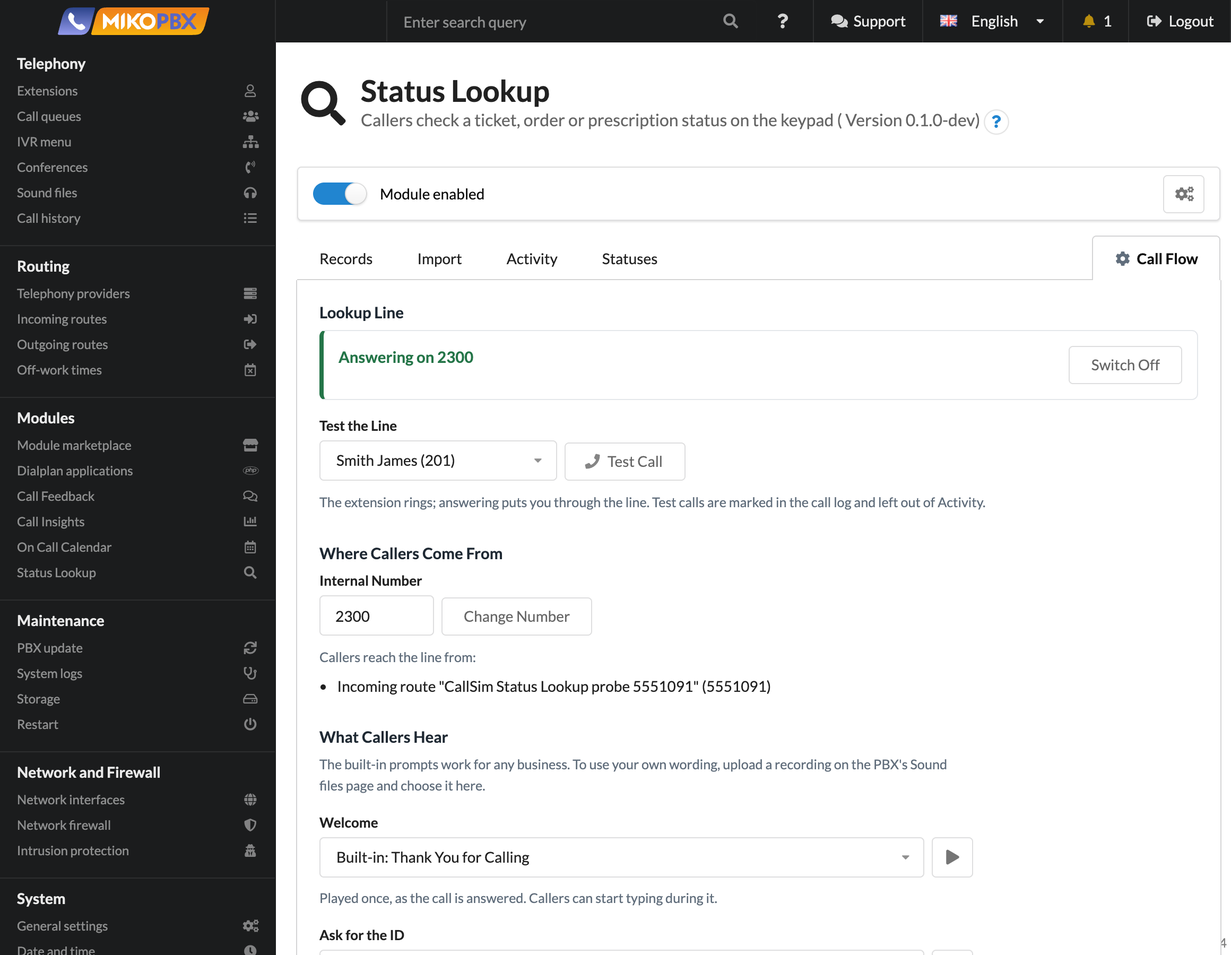
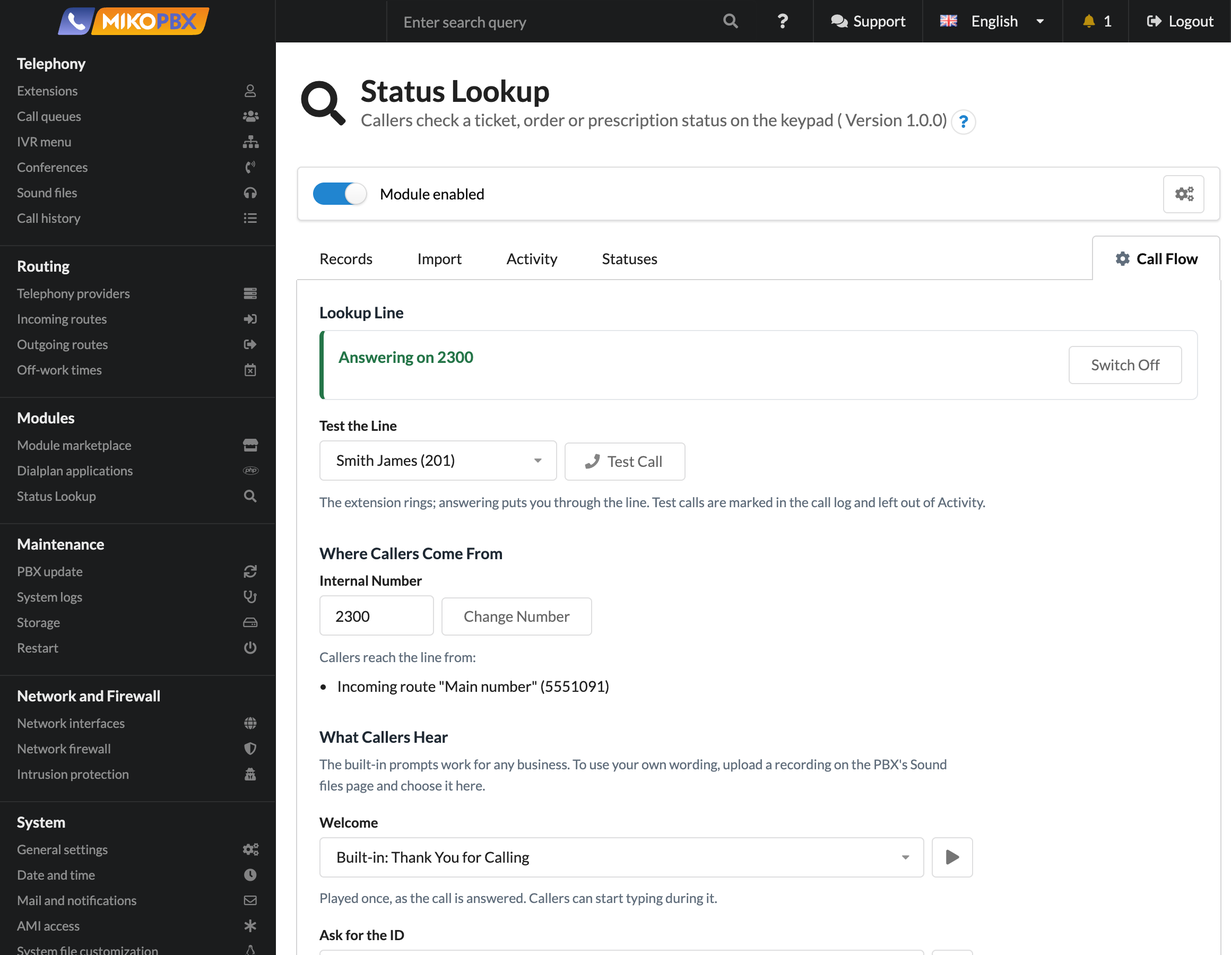
Prepare the README and CHANGELOG for the first release
The README no longer says the module is in development: it points to the
Releases page for the install zip and to the CHANGELOG, as the other
documentation expects once a version is published. The License section
now also names the licenses of what ships beside the module's own code:
the built-in prompts are CC0 1.0 (Sounds/LICENSE), and the bundled Apache
ECharts is Apache-2.0, with its notice and zrender's license next to it.

The CHANGELOG entry was written up feature by feature as the module was
built, so it read in the order things happened rather than the order a
reader needs. It now opens with one line on what the first version is
and lists the entries from the call itself (number, call flow, prompts,
PINs, guessing protection) through the page's tabs, the REST API and
privacy, to tooling. Wording that only made sense during development
("after a review", "Page details") is gone; nothing else changed. The
Release workflow uses this section as the release notes, so on release
only its heading needs the version and date.

Screenshots are retaken on the test PBX with the made-up repair-shop
data, now with the release's version in the page header, without other
modules in the PBX sidebar and without the test tools' route name. Two
new ones show the status dialog (sentence, what follows, who hears it)
and the record dialog (date, last day, phone, PIN), as a third row of
the README's screenshot table. The Import shot is taller, so the rows
[…]

diff --git a/CHANGELOG.md b/CHANGELOG.md
@@ -4,29 +4,17 @@ All notable changes to this module are listed here. Versions follow [Semantic Ve
 
 ## [Unreleased]
 
+The first version of Status Lookup: a self-service status line for MikoPBX 2026.6.34 or later, where callers type their ticket, order or prescription number and hear where it stands.
+
 Added:
 
 - **The lookup line's number.** On install the module takes internal number 2300, or the first free number up to 2399, and registers it in the PBX's extensions as a module number. It then appears as "Module: Status Lookup (2300)" in the PBX's destination pickers (incoming routes, IVR menus) while the module is enabled, and is hidden while it is disabled. 2300 is used because the PBX numbers its own IVR menus, queues and applications from 2200100 up, so 2200 would be a prefix of them. A reinstall that keeps settings keeps the number; an uninstall without kept settings releases it, unless a route still points at it. A later fresh install takes such a left-over number back, so those routes work again. The module never takes over a number another extension or module owns, and writes dialplan only for a number registered to it.
-- **The module page** (administrators only, Modules → Status Lookup), Call Flow tab:
-  - the line's state at a glance (answering on its number, or not, and what is missing), with Switch On and Switch Off. The line can only be switched on when it has an operator destination and every prompt can be played, and a change that would break a line that is on is refused;
-  - Test Call: choose an extension and the PBX rings it; answering puts you through the line exactly as a caller hears it. The module's worker places the call (the web page has no connection to Asterisk), and it is logged as a test call from that extension, left out of Activity and the miss limits;
-  - where callers come from: the incoming routes, IVR menus and off-work rules that send callers to the line, and Change Number. A number something still sends callers to can't be given up: the change is refused and nothing moves;
-  - what callers hear: each prompt from the built-in ones (only those with a recording) or the PBX's sound files, in a searchable menu with a play button on every entry and a Listen button beside it;
-  - how callers type (shortest and longest ID, how long to wait for keys, tries; new lengths that would leave existing records out of reach ask first, naming how many), where callers go (operator, after the last try, when a lookup fails; the last two default to the operator) from the PBX's own destination list, and the guessing protection limits.
-  Every value is checked again on the server; a refused change says what to fix, in English or Russian.
-- **Page behavior:** every action button ignores a second click while it works; a menu whose choice no longer exists (a deleted sound file or destination) shows it as missing instead of quietly picking another; the status dialog starts with no sound file chosen; the page works with any interface language, including ones written with an underscore (pt_BR, zh_Hans). Changes are written in transactions that take the database's write lock first, so a change made while calls are being logged waits a moment instead of failing.
-- **Statuses tab:** the statuses a record can have, in the order staff see them, each with its sentence (a PBX sound file, with a play button), what is said after it (nothing, the ID read back, or the record's date), what happens next (offer 1 to repeat and 0 for a person, say goodbye, or put the caller straight through to a destination) and how many records have it. Add, edit, move up and down, delete. Changing a status's code changes it on its records too; a status records still use is deleted only after choosing the status its records move to, in one step. A status whose sound file or destination has gone is flagged. Up to 50 statuses.
-- **Business templates.** On first use the Statuses tab asks "What kind of business is this?" and offers IT and device repair, auto workshop, pharmacy, and retail and e-commerce, each with its usual statuses and ID lengths, or starting from scratch. A template adds its statuses with the wording to record for each (in English or Russian, following the PBX's language); Download Wording gives the list to whoever records them, and each status shows "Not recorded yet" with its wording until a sound file is chosen. Statuses that need a conversation (such as "Can't be repaired") put the caller straight through to the operator when one is set, and otherwise offer the repeat menu, where 0 reaches the operator. Add from Template… later adds only the statuses that are missing (by code) and changes nothing else; a template sets the ID lengths only while there are no records. On the Records tab, a status whose sentence isn't recorded yet carries a warning: callers with it are put through to a person. Templates are JSON files in `Setup/templates/`, checked strictly when read, so new industries can be added as files. Each status also has an optional wording field, for whoever records it.
-- **Records tab** (the page's first tab): every record, newest change first, 50 to a page, with its ID, status (a colored label), date, last day (expired records grayed, with the day they expired), note, and when, by whom and how it last changed. Search by ID (from the start, so 104 finds 10445) or by text in the note; filter by status, by "not changed in 7, 30 or 90 days", and expired only. Add and edit in a dialog (the ID must be within the call flow's ID lengths, and unique); select records to change their status or delete them together (up to 1,000 at a time). Export CSV downloads the filtered records in the import format; PINs are never exported, and a note a spreadsheet would run as a formula is prefixed with an apostrophe.
-- **Import tab:** load records from a CSV file (UTF-8, comma- or semicolon-separated, with a header row; lookup_id and status_code are needed, note, expires, date, pin and phone optional; up to 5 MB and 100,000 rows). Drop the file or choose it, pick Add and Update or Replace All, and Check File shows what would happen first: how many records are new, changed, unchanged and deleted, and every row left out with its row number and reason (no ID, ID too short or long, the same ID as an earlier row, unknown status, note too long, a PIN that isn't 4 to 8 digits, a phone that isn't a phone number, a date that isn't YYYY-MM-DD). Nothing changes until Import is pressed; Replace All asks before deleting records not in the file, keeps records whose row in the file was left out (a typo in one row never deletes that customer's record), and is refused when no row in the file can be imported. Blank lines before the header are ignored. An ID keeps only its digits (TK-10445 becomes 10445), status codes match in any case, and a quoted note may span lines; the apostrophe Export CSV puts before formula-like notes is removed, so an exported file imports back unchanged. The whole file is applied in one transaction, so a call during the import sees the records as they were before or after it. Past imports are listed with who imported which file and what changed, and the rows each one left out. The file is read from the upload and never stored. A Download Example button gives a file in the right format.
 - **The call flow.** A caller who reaches the line hears a welcome, types an ID and #, and hears its status: one recorded sentence, optionally followed by the ID read back or a date (weekday, month and day, in the PBX's language). After the status the line either says goodbye, offers "1 to hear it again, 0 to speak to someone", or sends the caller straight to the status's own destination. 0 at the ID prompt reaches the operator destination; an invalid entry, an unknown ID or an expired record costs a try, and after the last try (3 by default) the caller goes to the too-many-tries destination. A status whose destination no longer exists, or that can't be played, sends the caller to the fault destination, as does a lookup that fails for any reason (even when the lookup script can't run at all); if that destination is gone too, they hear an apology. Until the line is switched on and has an operator destination, it doesn't answer, so an incoming route moves on to its next rule or default action as for any unanswered destination.
   - The dialplan plays the prompts and collects the digits; a short AGI script runs once per try, looks the ID up (digits within the configured length only, one indexed read, bound parameters) and returns the result in channel variables. PHP is in the call for milliseconds, and a caller who hangs up leaves no PHP process behind.
   - The line behaves like the PBX's own IVR menus: it has its own row in the call history, tells the incoming route the call was answered (so the caller doesn't fall through to the route's next rule or default action), and takes transfers from phones. Its own 2-minute limit replaces the incoming route's ring timeout, which the PBX would otherwise apply to it, and is cleared before the caller is sent on, so a conversation is never cut short. A caller still in the lookup at the limit is sent to the too-many-tries destination (or said goodbye to, if they have heard their status), not cut off. The lookup part of a call isn't recorded: callers type IDs there.
   - Callers can press keys over the prompts that expect them: an ID typed during the welcome, or after "not found" before the ID prompt has finished, counts, and 0 during the status sentence reaches the operator. (The ID read back after the status doesn't listen for keys.)
   - IDs are digits, kept as text, so leading zeros count (`00451` and `451` are different records), and are 2 to 20 digits long, so 0 alone always means "speak to someone". An ID ends with # or the digit timeout; there is no digit limit, so extra digits are rejected with the entry rather than carried into the next try.
   - A record whose last day isn't a valid date counts as expired.
-- **Miss limits** against guessing: a caller number (withheld numbers share one) that typed 10 IDs in the last hour that weren't found (or had expired), or all callers together reaching 200, is sent straight to the operator destination. An empty or malformed entry costs a try but isn't a miss, so silent callers can't push withheld callers to the operator. Test calls don't count; 0 turns a limit off.
-- **Activity tab:** for the last 7, 30, 90 or 365 days or any period up to a year, in PBX time: calls, how many heard their status, the share that needed no person (heard a status and ended without reaching anyone) and how many were put through to a person, each against the previous period of the same length; calls by day; how calls ended; the busiest hours; the IDs callers typed most often that weren't found or had expired, each with Find in Records; and the call log (when, caller, ID typed, how it ended, status, where the caller was sent, tries, length), filterable by how calls ended. Test calls are left out of the numbers and marked in the log. Charts use a tree-shaken Apache ECharts 6.1.0. Every date and time on the page is shown in the PBX's time zone.
 - **Built-in prompts** (welcome, enter ID, enter PIN, invalid, not found, repeat menu, goodbye, transfer, fault) are the default for every prompt, played in the PBX's language, or in English for languages the module has no recordings for. They are recorded by a voice actor in English (American) and Russian, converted to the telephone format (8 kHz, 16-bit mono WAV) at one loudness with the same short pause at each end, and released under CC0 (`Sounds/LICENSE`).
 - **Call log.** Every visit to the line is logged once, also when the caller hangs up in the middle, and also a second visit in the same call (an IVR menu option that leads back to the line) with its own tries and misses: a hangup handler, or the line itself just before it sends the caller on, hands the call to the module's worker, which validates it again, drops a visit it already has (a hang-up during the hand-off makes the line try again), and stores how it ended, the tries and misses, the last ID entered, the status and where the caller was sent. Daily counts per outcome, without phone numbers, are kept alongside.
 - **PINs and caller-ID checks.** A status can ask for the record's PIN before it is told, and a status can be told only to a caller calling from the record's own phone number; both are switched on per status (Who Hears It, in the status dialog), and the pharmacy template asks for PINs on all its statuses.
@@ -36,12 +24,25 @@ Added:
   - If the key file is missing or damaged, lookups of statuses without a PIN still work, and PIN statuses put callers through to the operator. A new key is written to a temporary file and linked into place, so no process reads a half-written key; a key that is a link, or not a regular file, is refused, because calls and the API run as root while the folder belongs to the web server.
   - A record's phone number is set in the record dialog or by an import's `phone` column (7 to 20 digits; spaces, dashes, brackets and a leading + are dropped). The caller's number matches when its last digits agree with the record's (at least 7, up to 9), so 04915112345678 and +4915112345678 are the same phone. A caller from another number is heard as "not found" and counts as a miss; a record without a phone puts the caller through to the operator, as for a missing PIN. In an import, an empty `phone` cell removes the phone, while an empty `pin` cell keeps the PIN (PINs are never exported).
   - The Records tab marks records with a PIN and shows their phone number; Export CSV writes the phone number.
-- **REST API** (v3, under `/pbxcore/api/v3/module-status-lookup/`) for shop, POS or ticketing software: list, read, create or change (PUT by ID: fields left out keep their value) and delete records, import a CSV (add and update, with a dry run), replace all records (a separate resource, so API keys are granted it separately), and read the statuses and the activity totals. Every check is the page's own, so the API can't store anything the page couldn't; unknown fields are refused, and an import's `dryRun` must be clearly true or false, so a misspelt dry run never imports for real. A note starting with "http" is refused, because the PBX's REST layer strips spaces and non-Latin letters from such text before the module sees it. Records changed through the API are marked "API" with the key's description. The calls run in the PBX's API worker; imports may take up to 2 minutes. The README describes the calls and how to give an API key access.
+- **Miss limits** against guessing: a caller number (withheld numbers share one) that typed 10 IDs in the last hour that weren't found (or had expired), or all callers together reaching 200, is sent straight to the operator destination. An empty or malformed entry costs a try but isn't a miss, so silent callers can't push withheld callers to the operator. Test calls don't count; 0 turns a limit off.
+- **Further protection:** each wrong PIN is written the moment it is typed, so calls running at the same time count together; the number of callers in the lookup at once is limited (Callers in the Lookup at Once, 10 by default, on the Call Flow tab; more are put through to the operator, logged as "Line full, put through"), which bounds what parallel calls can guess; writes from the page must carry a valid administrator's token, not just the session cookie; every record deleted through the API is noted in the system log with who did it; Replace All through the API refuses to delete more than half the records unless the request says `allowLargeDelete`; Forget overwrites the forgotten data in the database file; the PIN key is created and read without following links, and root never changes its mode outside the install; the ECharts bundle ships zrender's license too; the release workflow keeps its token out of the checkout. README and SECURITY.md say plainly what the guessing protection doesn't cover (IDs that are found, forged caller IDs, outcomes that show an ID exists).
+- **The module page** (Modules → Status Lookup, administrators only) has five tabs: Records, Import, Activity, Statuses and Call Flow. **Call Flow tab:**
+  - the line's state at a glance (answering on its number, or not, and what is missing), with Switch On and Switch Off. The line can only be switched on when it has an operator destination and every prompt can be played, and a change that would break a line that is on is refused;
+  - Test Call: choose an extension and the PBX rings it; answering puts you through the line exactly as a caller hears it. The module's worker places the call (the web page has no connection to Asterisk), and it is logged as a test call from that extension, left out of Activity and the miss limits;
+  - where callers come from: the incoming routes, IVR menus and off-work rules that send callers to the line, and Change Number. A number something still sends callers to can't be given up: the change is refused and nothing moves;
+  - what callers hear: each prompt from the built-in ones (only those with a recording) or the PBX's sound files, in a searchable menu with a play button on every entry and a Listen button beside it;
+  - how callers type (shortest and longest ID, how long to wait for keys, tries; new lengths that would leave existing records out of reach ask first, naming how many), where callers go (operator, after the last try, when a lookup fails; the last two default to the operator) from the PBX's own destination list, and the guessing protection limits.
+  Every value is checked again on the server; a refused change says what to fix, in English or Russian.
+- **Statuses tab:** the statuses a record can have, in the order staff see them, each with its sentence (a PBX sound file, with a play button), what is said after it (nothing, the ID read back, or the record's date), what happens next (offer 1 to repeat and 0 for a person, say goodbye, or put the caller straight through to a destination) and how many records have it. Add, edit, move up and down, delete. Changing a status's code changes it on its records too; a status records still use is deleted only after choosing the status its records move to, in one step. A status whose sound file or destination has gone is flagged. Up to 50 statuses.
+- **Business templates.** On first use the Statuses tab asks "What kind of business is this?" and offers IT and device repair, auto workshop, pharmacy, and retail and e-commerce, each with its usual statuses and ID lengths, or starting from scratch. A template adds its statuses with the wording to record for each (in English or Russian, following the PBX's language); Download Wording gives the list to whoever records them, and each status shows "Not recorded yet" with its wording until a sound file is chosen. Statuses that need a conversation (such as "Can't be repaired") put the caller straight through to the operator when one is set, and otherwise offer the repeat menu, where 0 reaches the operator. Add from Template… later adds only the statuses that are missing (by code) and changes nothing else; a template sets the ID lengths only while there are no records. On the Records tab, a status whose sentence isn't recorded yet carries a warning: callers with it are put through to a person. Templates are JSON files in `Setup/templates/`, checked strictly when read, so new industries can be added as files. Each status also has an optional wording field, for whoever records it.
+- **Records tab** (the page's first tab): every record, newest change first, 50 to a page, with its ID, status (a colored label), date, last day (expired records grayed, with the day they expired), note, and when, by whom and how it last changed. Search by ID (from the start, so 104 finds 10445) or by text in the note; filter by status, by "not changed in 7, 30 or 90 days", and expired only. Add and edit in a dialog (the ID must be within the call flow's ID lengths, and unique); select records to change their status or delete them together (up to 1,000 at a time). Export CSV downloads the filtered records in the import format; PINs are never exported, and a note a spreadsheet would run as a formula is prefixed with an apostrophe.
+- **Import tab:** load records from a CSV file (UTF-8, comma- or semicolon-separated, with a header row; lookup_id and status_code are needed, note, expires, date, pin and phone optional; up to 5 MB and 100,000 rows). Drop the file or choose it, pick Add and Update or Replace All, and Check File shows what would happen first: how many records are new, changed, unchanged and deleted, and every row left out with its row number and reason (no ID, ID too short or long, the same ID as an earlier row, unknown status, note too long, a PIN that isn't 4 to 8 digits, a phone that isn't a phone number, a date that isn't YYYY-MM-DD). Nothing changes until Import is pressed; Replace All asks before deleting records not in the file, keeps records whose row in the file was left out (a typo in one row never deletes that customer's record), and is refused when no row in the file can be imported. Blank lines before the header are ignored. An ID keeps only its digits (TK-10445 becomes 10445), status codes match in any case, and a quoted note may span lines; the apostrophe Export CSV puts before formula-like notes is removed, so an exported file imports back unchanged. The whole file is applied in one transaction, so a call during the import sees the records as they were before or after it. Past imports are listed with who imported which file and what changed, and the rows each one left out. The file is read from the upload and never stored. A Download Example button gives a file in the right format.
+- **Activity tab:** for the last 7, 30, 90 or 365 days or any period up to a year, in PBX time: calls, how many heard their status, the share that needed no person (heard a status and ended without reaching anyone) and how many were put through to a person, each against the previous period of the same length; calls by day; how calls ended; the busiest hours; the IDs callers typed most often that weren't found or had expired, each with Find in Records; and the call log (when, caller, ID typed, how it ended, status, where the caller was sent, tries, length), filterable by how calls ended. Test calls are left out of the numbers and marked in the log. Charts use a tree-shaken Apache ECharts 6.1.0. Every date and time on the page is shown in the PBX's time zone.
 - **Privacy settings** (Call Flow tab): how long the call log keeps calls (today and the given number of days before it; by default as long as the PBX keeps its call history, which under 30 days means forever, as in the PBX itself; never less than the last hour, which the guessing protection counts), and whether expired records are deleted every night. The module's worker runs the clean-up at 03:00 PBX time (and a minute after it starts), by whole day; the daily totals stay. **Forget Someone's Data** deletes one ID's record, the logged calls for it, its wrong-PIN counts and its mentions in past imports' rows left out, or every call from one caller number and that number on records (matched on the last digits, as for the caller-ID check); the PBX's system log notes who did it, without the ID or number.
+- **REST API** (v3, under `/pbxcore/api/v3/module-status-lookup/`) for shop, POS or ticketing software: list, read, create or change (PUT by ID: fields left out keep their value) and delete records, import a CSV (add and update, with a dry run), replace all records (a separate resource, so API keys are granted it separately), and read the statuses and the activity totals. Every check is the page's own, so the API can't store anything the page couldn't; unknown fields are refused, and an import's `dryRun` must be clearly true or false, so a misspelt dry run never imports for real. A note starting with "http" is refused, because the PBX's REST layer strips spaces and non-Latin letters from such text before the module sees it. Records changed through the API are marked "API" with the key's description. The calls run in the PBX's API worker; imports may take up to 2 minutes. The README describes the calls and how to give an API key access.
 - **Busy hours and large imports:** the module's database uses SQLite's write-ahead log, so a lookup never waits for an import or the worker to finish writing. The worker waits at most a second for the write lock and otherwise puts a call record back on its queue for a few seconds later, so it keeps answering the PBX's health checks. (The PBX's queue clean-up drops jobs nobody picks up for minutes, so records can still be lost while the worker is down.) Checked with 20 calls at once while 100,000-record Replace All imports ran back to back: every call heard its status within a second and was logged once (`tools/loadtest`).
 - **Database on network storage:** the write-ahead log is used only on local storage, as the PBX decides for its own databases, and is cut back to 4 MB after a large import. A nightly clean-up that finds the database busy tries again 15 minutes later.
-- **Page details:** on the Call Flow tab, what keeps the line from answering links to the field that fixes it, and a value that can't be saved is marked at its field with the reason under it. Forget Someone's Data opens its own dialog, apart from the settings Save stores. A record is deleted from its Edit dialog (or several with Delete Selected), which keeps the records table narrow enough for a laptop. On phones, every tab stays reachable and table cells are labeled with their column. An import stops with `statuses_changed` if a status it uses was renamed or deleted while the file was being checked; a record left outside narrowed ID lengths can still be edited, as long as its ID stays the same.
-- **Security, after a review:** each wrong PIN is written the moment it is typed, so calls running at the same time count together; the number of callers in the lookup at once is limited (Callers in the Lookup at Once, 10 by default, on the Call Flow tab; more are put through to the operator, logged as "Line full, put through"), which bounds what parallel calls can guess; writes from the page must carry a valid administrator's token, not just the session cookie; every record deleted through the API is noted in the system log with who did it; Replace All through the API refuses to delete more than half the records unless the request says `allowLargeDelete`; Forget overwrites the forgotten data in the database file; the PIN key is created and read without following links, and root never changes its mode outside the install; the ECharts bundle ships zrender's license too; the release workflow keeps its token out of the checkout. README and SECURITY.md say plainly what the guessing protection doesn't cover (IDs that are found, forged caller IDs, outcomes that show an ID exists).
+- **Page behavior:** every action button ignores a second click while it works; a menu whose choice no longer exists (a deleted sound file or destination) shows it as missing instead of quietly picking another; the status dialog starts with no sound file chosen; the page works with any interface language, including ones written with an underscore (pt_BR, zh_Hans). Changes are written in transactions that take the database's write lock first, so a change made while calls are being logged waits a moment instead of failing. On the Call Flow tab, what keeps the line from answering links to the field that fixes it, and a value that can't be saved is marked at its field with the reason under it. Forget Someone's Data opens its own dialog, apart from the settings Save stores. A record is deleted from its Edit dialog (or several with Delete Selected), which keeps the records table narrow enough for a laptop. On phones, every tab stays reachable and table cells are labeled with their column. An import stops with `statuses_changed` if a status it uses was renamed or deleted while the file was being checked; a record left outside narrowed ID lengths can still be edited, as long as its ID stays the same.
+- **Protection of what the line uses:** the PBX refuses to delete a sound file the line plays, or an extension, queue or IVR menu it sends callers to.
 - **Release tooling:** `build/package.sh` builds the install zip from a commit, and a Release workflow attaches it with its checksum to a draft GitHub release when a version is tagged; SECURITY.md (what the module exposes, how to report a problem) and CONTRIBUTING.md (setup, checks, how a call runs, layout, releases). The README describes setting up and using the module.
 - **Checked with real calls** (`tools/callsim`): besides the call flow, PINs and caller-ID checks, a caller from a trunk can't reach the line except through a route pointed at it, a conversation after the lookup outlasts its 2-minute limit, a caller ID such as `123;Hangup()` with an HTML name is logged as digits, values that would break out of the dialplan are refused with `extensions.conf` unchanged, and with the Call Feedback module installed, a caller who only used the lookup isn't surveyed while one put through to a person is. A full uninstall leaves nothing of the module behind (checked by hand on a test PBX).
-- **Protection of what the line uses:** the PBX refuses to delete a sound file the line plays, or an extension, queue or IVR menu it sends callers to.

diff --git a/README.md b/README.md
@@ -6,7 +6,7 @@ A MikoPBX extension module that answers "Is it ready yet?" calls without a perso
 
 It suits any business whose customers call to ask where something stands: device and IT repair, auto workshops, pharmacies, shops and online stores.
 
-> **Status: in development.** Not released yet. What has changed so far is in [CHANGELOG.md](CHANGELOG.md).
+> Download the latest version from the [Releases page](https://github.com/eneuen/ModuleStatusLookup/releases). What changed in each version is in [CHANGELOG.md](CHANGELOG.md).
 
 ![The Records tab: each ID with its status, date, last day, note and last change, with search, filters and CSV export](docs/screenshots/records.png)
 
@@ -33,6 +33,16 @@ The screenshots show a test PBX with simulated calls; the IDs, notes and numbers
     <td width="50%" valign="top">
       <a href="docs/screenshots/call-flow.png"><img src="docs/screenshots/call-flow.png" alt="The Call Flow tab: the line's state and test call, what sends callers to it, and its prompts"></a>
       <br><b>Call Flow.</b> The line's number, what callers hear, how they type, where they go, and privacy settings.
+    </td>
+  </tr>
+  <tr>
+    <td width="50%" valign="top">
+      <a href="docs/screenshots/status-dialog.png"><img src="docs/screenshots/status-dialog.png" alt="The status dialog: its code and name, the recorded sentence, what is said after it, what happens next, and who hears it"></a>
+      <br><b>A status.</b> Its recorded sentence, what is said after it, what happens next, and whether a PIN or the caller's own phone is needed.
+    </td>
+    <td width="50%" valign="top">
+      <a href="docs/screenshots/record-dialog.png"><img src="docs/screenshots/record-dialog.png" alt="The record dialog: the ID, status, date, last day, note, phone number and PIN"></a>
+      <br><b>A record.</b> The ID and its status, with an optional date, last day, note for staff, phone number and PIN.
     </td>
   </tr>
 </table>
@@ -147,4 +157,4 @@ See [CONTRIBUTING.md](CONTRIBUTING.md) for the setup, the checks, how a call run
 
 ## License
 
-GPL-3.0-or-later. See [LICENSE](LICENSE).
+GPL-3.0-or-later. See [LICENSE](LICENSE). The built-in prompts in `Sounds/` are dedicated to the public domain under CC0 1.0 (see [Sounds/LICENSE](Sounds/LICENSE)), so you can reuse them anywhere. The bundled Apache ECharts is Apache-2.0; its license and notice, and zrender's license, are in `public/assets/js/vendor/`.
